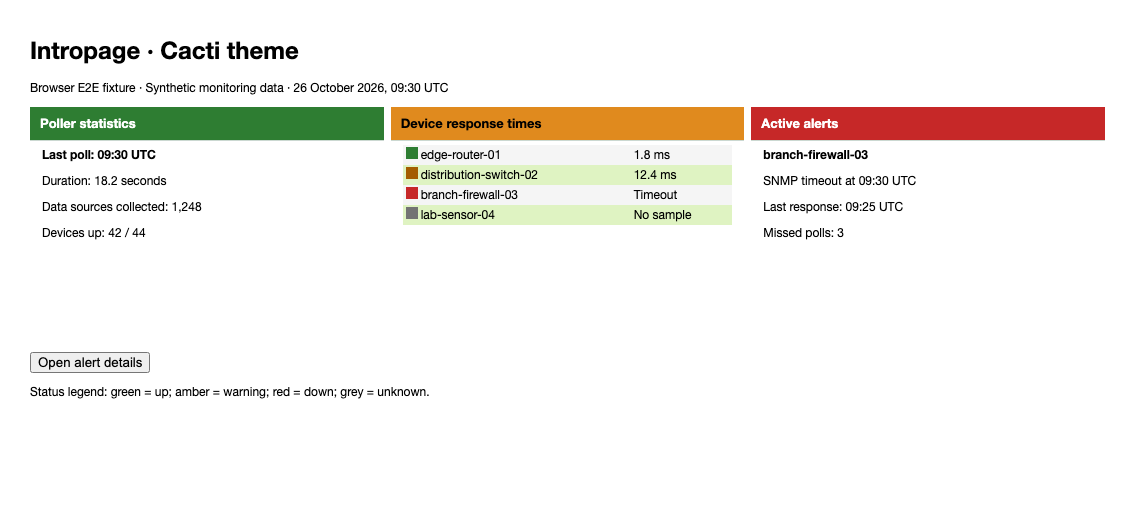
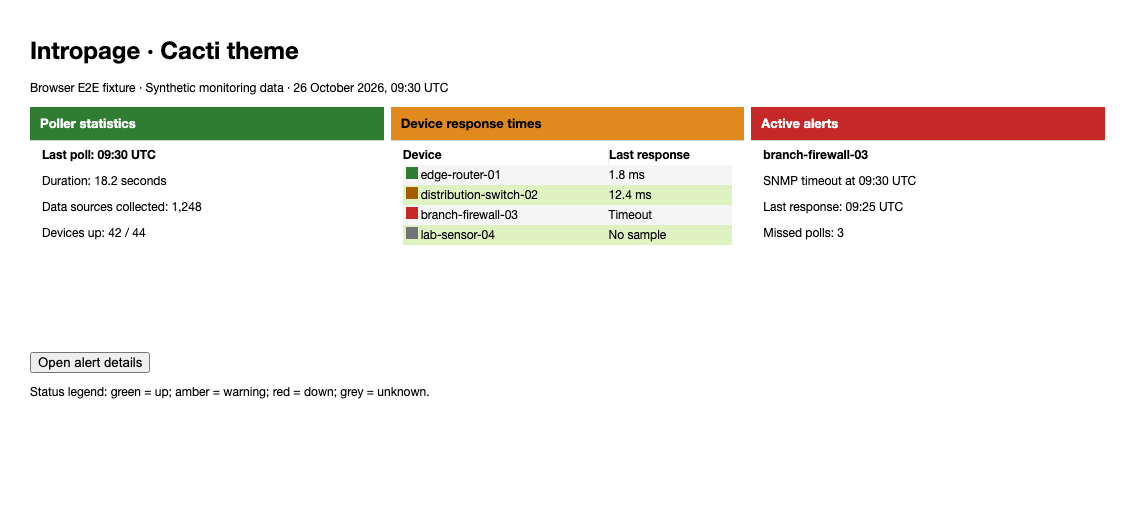
Add accessible headers to the theme fixture tables

Changed region(s): [[0.3377, 0.2769, 0.6447, 0.4923]]

diff --git a/tests/fixtures/Ui/cacti-theme.html b/tests/fixtures/Ui/cacti-theme.html
@@ -7,11 +7,11 @@
 		<p>Browser E2E fixture · Synthetic monitoring data · 26 October 2026, 09:30 UTC</p>
 		<ul id="panel_container" class="container_col_3">
 			<li class="grid_item panel_1_1"><div class="panel_wrapper"><header class="ccCardHeader color_green"><h2 class="ccTitle">Poller statistics</h2></header><div class="panel_data ccCardBody"><h4>Last poll: 09:30 UTC</h4><p>Duration: 18.2 seconds</p><p>Data sources collected: 1,248</p><p>Devices up: 42 / 44</p></div></div></li>
-			<li class="grid_item panel_1_1"><div class="panel_wrapper"><header class="ccCardHeader color_yellow"><h2 class="ccTitle">Device response times</h2></header><div class="panel_data ccCardBody"><table class="cactiTable" aria-label="Device response times"><tr class="odd"><td><span class="inpa_sq color_green"></span>edge-router-01</td><td>1.8 ms</td></tr><tr class="even"><td><span class="inpa_sq color_yellow"></span>distribution-switch-02</td><td>12.4 ms</td></tr><tr class="odd"><td><span class="inpa_sq color_red"></span>branch-firewall-03</td><td>Timeout</td></tr><tr class="even"><td><span class="inpa_sq color_grey"></span>lab-sensor-04</td><td>No sample</td></tr></table></div></div></li>
+			<li class="grid_item panel_1_1"><div class="panel_wrapper"><header class="ccCardHeader color_yellow"><h2 class="ccTitle">Device response times</h2></header><div class="panel_data ccCardBody"><table class="cactiTable" aria-label="Device response times"><thead><tr><th scope="col">Device</th><th scope="col">Last response</th></tr></thead><tbody><tr class="odd"><td><span class="inpa_sq color_green"></span>edge-router-01</td><td>1.8 ms</td></tr><tr class="even"><td><span class="inpa_sq color_yellow"></span>distribution-switch-02</td><td>12.4 ms</td></tr><tr class="odd"><td><span class="inpa_sq color_red"></span>branch-firewall-03</td><td>Timeout</td></tr><tr class="even"><td><span class="inpa_sq color_grey"></span>lab-sensor-04</td><td>No sample</td></tr></tbody></table></div></div></li>
 			<li class="grid_item panel_1_1"><div class="panel_wrapper"><header class="ccCardHeader color_red"><h2 class="ccTitle">Active alerts</h2></header><div class="panel_data ccCardBody"><h4>branch-firewall-03</h4><p>SNMP timeout at 09:30 UTC</p><p>Last response: 09:25 UTC</p><p>Missed polls: 3</p></div></div></li>
 		</ul>
 		<button id="open-details" type="button">Open alert details</button>
-		<div id="overlay"><div id="overlay_detail"><div class="cactiTableTitleRow"><div class="cactiTableTitle">Analyze Cacti Log Details</div><div class="cactiTableButton"><i class="fas fa-circle color_red_bubble"></i></div></div><table class="cactiTable" aria-label="Alert details"><tr class="odd"><td>09:30</td><td>ERROR: branch-firewall-03 did not respond to SNMP.</td></tr><tr class="even"><td>09:29</td><td>WARNING: distribution-switch-02 recovered after 12.4 ms.</td></tr></table></div></div>
+		<div id="overlay"><div id="overlay_detail"><div class="cactiTableTitleRow"><div class="cactiTableTitle">Analyze Cacti Log Details</div><div class="cactiTableButton"><i class="fas fa-circle color_red_bubble"></i></div></div><table class="cactiTable" aria-label="Alert details"><thead><tr><th scope="col">Time</th><th scope="col">Message</th></tr></thead><tbody><tr class="odd"><td>09:30</td><td>ERROR: branch-firewall-03 did not respond to SNMP.</td></tr><tr class="even"><td>09:29</td><td>WARNING: distribution-switch-02 recovered after 12.4 ms.</td></tr></tbody></table></div></div>
 		<p style="clear:both">Status legend: green = up; amber = warning; red = down; grey = unknown.</p>
 	</main>
 </body>
